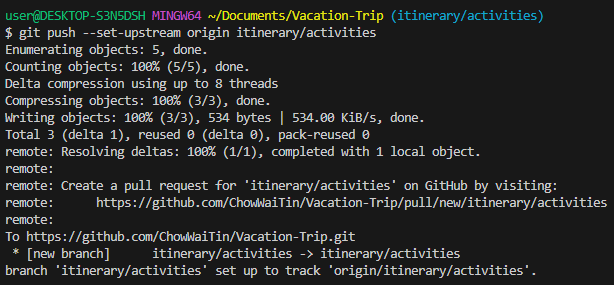
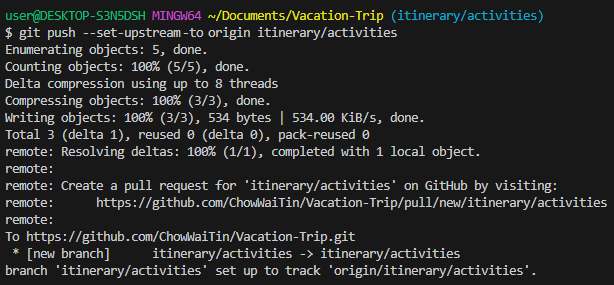
Edit upstream-to

Changed region(s): [[0.2785, 0.0842, 0.6498, 0.1404]]

diff --git a/Learning Git with Real-Life Applications/4. Collaboration as A Team/1._Contributing_Individually.md b/Learning Git with Real-Life Applications/4. Collaboration as A Team/1._Contributing_Individually.md
@@ -66,7 +66,7 @@
     ````
     * c. Push the local branch named '`itinerary/activities`' to the remote repository called '`origin`'
     ```
-    git push --set-upstream origin itinerary/activities
+    git push --set-upstream-to origin itinerary/activities
     ````
 
     ![Git add ](../images/4_1/4_1_5.png)
